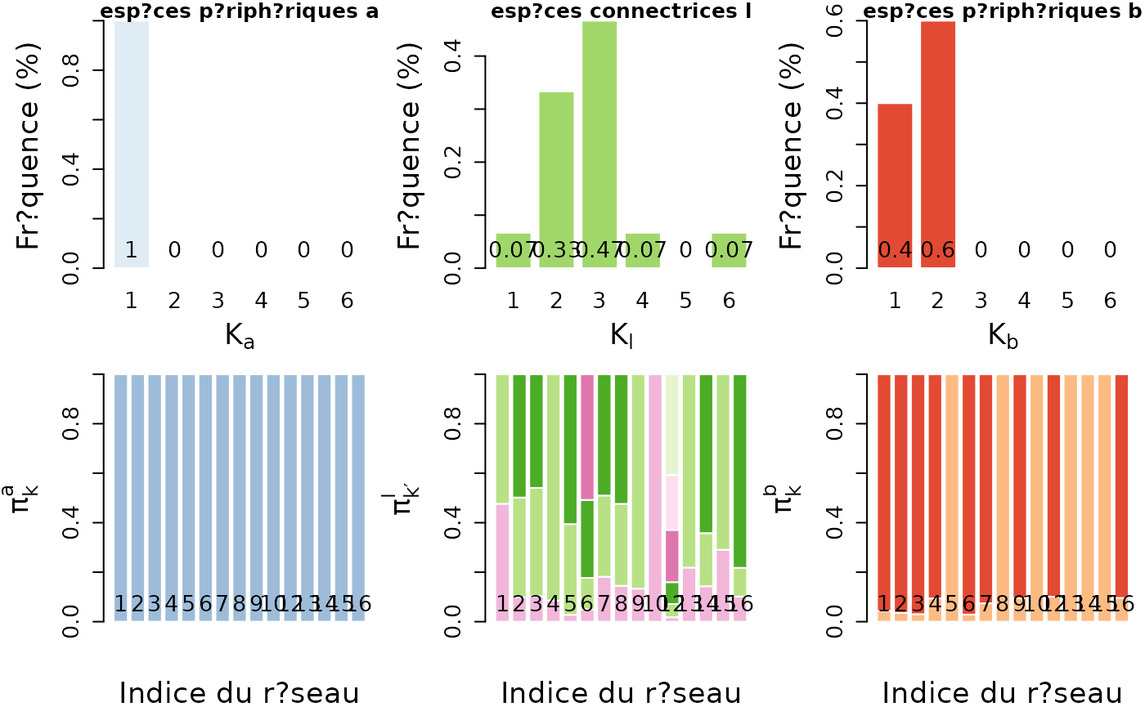
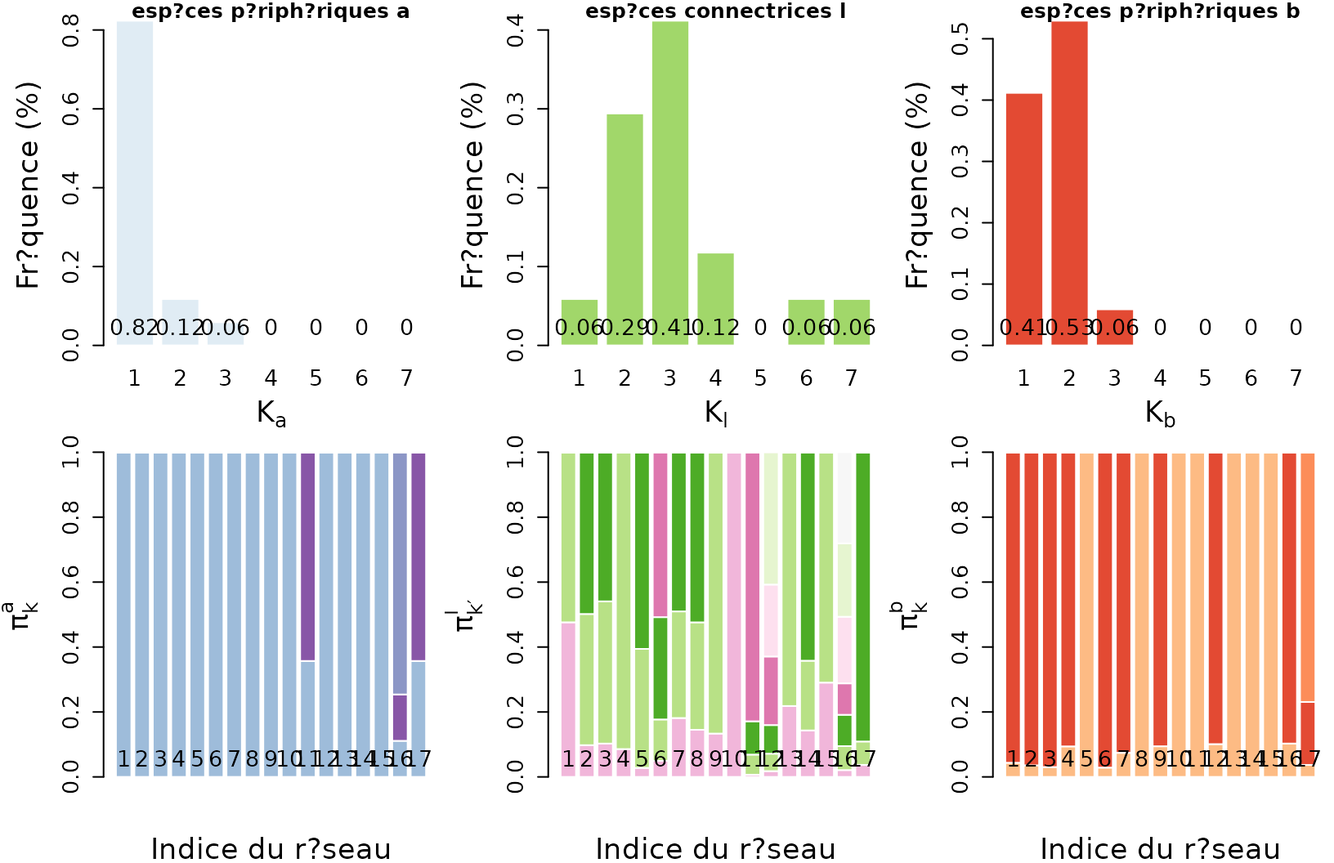
Built site for analysisMultipartiteSBM: 0.1.0@cf6ba3c

diff --git a/articles/Application_EcologicalNetworksDataset.html b/articles/Application_EcologicalNetworksDataset.html
@@ -99,21 +99,20 @@
 <a href="#requirements" class="anchor"></a>Requirements</h3>
 <p>The packages required for the analysis are <strong>analysisMultipartiteSBM</strong> and some others for data manipulation or representation:</p>
 <div class="sourceCode" id="cb1"><pre class="downlit sourceCode r">
-<code class="sourceCode R"><span class="kw"><a href="https://rdrr.io/r/base/library.html">library</a></span><span class="op">(</span><span class="va"><a href="https://ferdinandcampos.github.io/analysisMultipartiteSBM/">analysisMultipartiteSBM</a></span><span class="op">)</span></code></pre></div>
+<code class="sourceCode R"><span class="kw"><a href="https://rdrr.io/r/base/library.html">library</a></span><span class="op">(</span><span class="va"><a href="https://ferdinandcampos.github.io/analysisMultipartiteSBM">analysisMultipartiteSBM</a></span><span class="op">)</span></code></pre></div>
 </div>
 <div id="a-new-collection-of-networks" class="section level3">
 <h3 class="hasAnchor">
 <a href="#a-new-collection-of-networks" class="anchor"></a>A new collection of networks</h3>
 <p>Notre étude est motivée par une nouvelle collection de 42 réseaux tripartites récemment rassemblée et préparée par Virginia Domínguez-García dans <span class="citation">Domínguez-García and Kéfi (<a href="#ref-dominguez2021notes" role="doc-biblioref">n.d.</a>)</span> à partir des principales études écologiques multipartites existant dans la littérature. Les réseaux collectés sont issus de zones géographiques - et donc de type d’espèces, climat, nature des sols - différentes compte tenu de la grande variété des pays d’origine des études sources (<span class="citation">Melián et al. (<a href="#ref-melian2009diversity" role="doc-biblioref">2009</a>)</span>, <span class="citation">Shinohara, Uchida, and Yoshida (<a href="#ref-shinohara2019contrasting" role="doc-biblioref">2019</a>)</span>, <span class="citation">Pocock, Evans, and Memmott (<a href="#ref-pocock2012robustness" role="doc-biblioref">2012</a>)</span>, <span class="citation">Hackett et al. (<a href="#ref-hackett2019reshaping" role="doc-biblioref">2019</a>)</span>, <span class="citation">Macfadyen et al. (<a href="#ref-macfadyen2009differences" role="doc-biblioref">2009</a>)</span> et <span class="citation">Dáttilo et al. (<a href="#ref-dattilo2016unravelling" role="doc-biblioref">2016</a>)</span>). Il s’agit néanmoins du premier jeu de réseaux écologiques multipartites réels unifiant différents travaux écologiques et le seul de cette ampleur. Les données comprennent 44 réseaux tripartites structurés comme ci-dessus, dont les deux interactions bipartites sont de trois natures différentes : mutualiste–antagoniste (MA), antagoniste–antagoniste (AA) et mutualiste–mutualiste (MM).</p>
 <p>Les données utilisées sont les 17 réseaux de type mutualiste-antagoniste (MA) de ce jeu de données tripartites. Les interactions de ces 17 réseaux sont de deux types, herbivorie–pollinisation (i.e. a sont des herbivores, l des plantes et b des pollinisateurs) pour 16 d’entre eux et herbivorie–dispersion de graines (i.e. a sont des herbivores, l des plantes et b des espèces qui disséminent des graines) pour un d’entre eux. Par souci de clarté, on utilisera l’appellation commune d’espèces mutualistes pour l’ensemble des 17 réseaux.</p>
-<div class="sourceCode" id="cb2"><pre class="downlit sourceCode r">
-<code class="sourceCode R"><span class="co">#data(ecologicalNetworksDataset)</span></code></pre></div>
+<p>Pour des questions de publication de données, le jeu de réseaux d’origine <span class="math inline">\(\texttt{ecologicalNetworksDataset}\)</span> (avant ou après calibration MBM) n’est pas rendu disponible ici. On peut néanmoins charger le résultat du calcul des métriques sur les blocs (voir plus bas).</p>
 </div>
 <div id="preparation-of-the-data" class="section level3">
 <h3 class="hasAnchor">
 <a href="#preparation-of-the-data" class="anchor"></a>Preparation of the data</h3>
-<div class="sourceCode" id="cb3"><pre class="downlit sourceCode r">
-<code class="sourceCode R"><span class="va">dataset_path</span><span class="op">=</span><span class="st">""</span>
+<div class="sourceCode" id="cb2"><pre class="downlit sourceCode r">
+<code class="sourceCode R"><span class="va">dataset_path</span><span class="op">=</span><span class="st">"data/ecologicalNetworksDataset/"</span>
 <span class="va">dataset_names_MA</span> <span class="op">&lt;-</span> <span class="fu"><a href="https://rdrr.io/r/base/c.html">c</a></span><span class="op">(</span><span class="st">'Sinohara_1_ALL_PH'</span>, <span class="st">'Sinohara_2_ALL_PH'</span>, <span class="st">'Sinohara_3_ALL_PH'</span>, <span class="st">'Sinohara_4_ALL_PH'</span>, <span class="st">'Sinohara_ALL_A_PH'</span>, 
                       <span class="st">'Sinohara_ALL_E_PH'</span>, <span class="st">'Sinohara_ALL_I_PH'</span>, <span class="st">'Sinohara_2_E_PH'</span>, <span class="st">'Sinohara_3_E_PH'</span>, <span class="st">'Sinohara_4_I_PH'</span>, 
                       <span class="st">'Melian_OO_OO_PH'</span>, <span class="st">'Hackett_1_ALL_PH'</span>, <span class="st">'Hackett_2_ALL_PH'</span>, <span class="st">'Hackett_1_S_PH'</span>, <span class="st">'Hackett_1_GL_PH'</span>,
@@ -121,10 +120,7 @@
 
 
 <span class="va">dataset_names</span><span class="op">&lt;-</span><span class="va">dataset_names_MA</span>
-<span class="va">Indices</span><span class="op">=</span><span class="fl">1</span><span class="op">:</span><span class="fl">17</span>
-<span class="va">study_insectes_only</span><span class="op">=</span><span class="cn">FALSE</span>
-<span class="kw">if</span> <span class="op">(</span><span class="va">study_insectes_only</span><span class="op">)</span><span class="op">{</span><span class="va">dataset_names</span><span class="op">[</span><span class="fl">16</span><span class="op">]</span><span class="op">&lt;-</span><span class="st">"PocockInsects_OO_OO_PH"</span>
-                         <span class="va">Indices</span><span class="op">&lt;-</span><span class="va">Indices</span><span class="op">[</span><span class="op">-</span><span class="fu"><a href="https://rdrr.io/r/base/c.html">c</a></span><span class="op">(</span><span class="fl">11</span>,<span class="fl">17</span><span class="op">)</span><span class="op">]</span><span class="op">}</span></code></pre></div>
+<span class="va">Indices</span><span class="op">=</span><span class="fl">1</span><span class="op">:</span><span class="fl">17</span></code></pre></div>
 </div>
 <div id="multipartite-block-model-mbm" class="section level3">
 <h3 class="hasAnchor">
@@ -152,18 +148,15 @@ X^{qq^\prime}_{ii^\prime} = \left\{
 <div id="calibrate-mbm-and-compute-metrics" class="section level3">
 <h3 class="hasAnchor">
 <a href="#calibrate-mbm-and-compute-metrics" class="anchor"></a>Calibrate MBM and compute metrics</h3>
-<p>Pour chaque réseau tripartite individuel, on calibre MBM et puis on s’intéresse aux blocs inférés dans les trois groupes d’espèces (GE). On fait le choix des 5 métriques suivantes pour classifier les blocs du groupe des connecteurs <span class="math inline">\(l\)</span>, définies pour chaque bloc <span class="math inline">\(k^\prime\in1,\dots,K_l\)</span> d’un groupe de connecteurs <span class="math inline">\(l\)</span> donné : <span class="math display">\[\left(\bar{c}_a, \bar{c}_b, \textrm{PR}_b^{sym}, \bar{c}_a^{\textrm{N}}, \bar{c}_b^{\textrm{N}}\right).\]</span></p>
+<p>Pour chaque réseau tripartite individuel, on calibre MBM et puis on s’intéresse aux blocs inférés dans les trois groupes d’espèces (GE). On fait le choix des 5 métriques suivantes pour classifier les blocs du groupe des connecteurs <span class="math inline">\(l\)</span>, définies pour chaque bloc <span class="math inline">\(k^\prime\in1,\dots,K_l\)</span> d’un groupe de connecteurs <span class="math inline">\(l\)</span> donné : <span class="math display">\[\left(\bar{c}_a, \bar{c}_b, \textrm{PR}_b^{sym}, \bar{c}_a^{\textrm{N}}, \bar{c}_b^{\textrm{N}}\right).\]</span> On peut calculer les valeurs de métriques sur les blocs des <span class="math inline">\(17\)</span> réseaux grâce aux commandes suivantes.</p>
+<div class="sourceCode" id="cb3"><pre class="downlit sourceCode r">
+<code class="sourceCode R"><span class="va">analyseENetDataset</span><span class="op">&lt;-</span><span class="fu"><a href="../reference/analysisTripartiteSBM.html">analysisTripartiteSBM</a></span><span class="op">(</span><span class="va">dataset_path</span>,<span class="va">dataset_names</span>,<span class="va">Indices</span>,quiet<span class="op">=</span><span class="cn">TRUE</span><span class="op">)</span></code></pre></div>
+<p>On peut aussi directement charger depuis le package la table <span class="math inline">\(\texttt{analyseENetDataset}\)</span> contenant ces valeurs.</p>
 <div class="sourceCode" id="cb4"><pre class="downlit sourceCode r">
-<code class="sourceCode R"><span class="co">#analyse&lt;-analysisTripartiteSBM(dataset_path,dataset_names,Indices,quiet=TRUE)</span>
+<code class="sourceCode R"><span class="fu"><a href="https://rdrr.io/r/utils/data.html">data</a></span><span class="op">(</span><span class="va">analyseEcologicalNetworksDataset</span><span class="op">)</span>
 
-<span class="kw">if</span> <span class="op">(</span><span class="op">!</span><span class="va">study_insectes_only</span><span class="op">)</span><span class="op">{</span>
-  <span class="fu"><a href="https://rdrr.io/r/utils/data.html">data</a></span><span class="op">(</span><span class="va">analyseEcologicalNetworksDataset</span><span class="op">)</span>
-<span class="op">}</span> <span class="kw">else</span><span class="op">{</span>
-  <span class="fu"><a href="https://rdrr.io/r/utils/data.html">data</a></span><span class="op">(</span><span class="va">analyseEcologicalNetworksDataset_insects</span><span class="op">)</span>
-<span class="op">}</span>
-
-<span class="fu"><a href="https://rdrr.io/r/utils/str.html">str</a></span><span class="op">(</span><span class="va">analyse</span><span class="op">)</span>
-<span class="co">#&gt; 'data.frame':    81 obs. of  21 variables:</span>
+<span class="fu"><a href="https://rdrr.io/r/utils/str.html">str</a></span><span class="op">(</span><span class="va">analyseENetDataset</span><span class="op">)</span>
+<span class="co">#&gt; 'data.frame':    102 obs. of  21 variables:</span>
 <span class="co">#&gt;  $ network_id     : num  1 1 1 1 1 2 2 2 2 2 ...</span>
 <span class="co">#&gt;  $ network_name   : chr  "Sinohara_1_ALL_PH" "Sinohara_1_ALL_PH" "Sinohara_1_ALL_PH" "Sinohara_1_ALL_PH" ...</span>
 <span class="co">#&gt;  $ nb_nodes       : num  91 91 91 91 91 108 108 108 108 108 ...</span>
@@ -195,65 +188,93 @@ X^{qq^\prime}_{ii^\prime} = \left\{
 <a href="#blocks-analysis" class="anchor"></a>Blocks analysis</h3>
 <p>Les données issues des réseaux représentent <span class="math inline">\(N=53\)</span> blocs <span class="math inline">\(k^\prime\)</span> de plantes à classifier, en interactions avec <span class="math inline">\(21\)</span> blocs d’herbivores et <span class="math inline">\(28\)</span> blocs de mutualistes.</p>
 <div class="sourceCode" id="cb5"><pre class="downlit sourceCode r">
-<code class="sourceCode R"><span class="fu"><a href="../reference/plotAnalysisTripartiteSBM.html">plotAnalysisTripartiteSBM</a></span><span class="op">(</span><span class="va">analyse</span><span class="op">)</span></code></pre></div>
-<p><img src="Application_EcologicalNetworksDataset_files/figure-html/plot%20block%20analysis-1.png" width="700"></p>
+<code class="sourceCode R"><span class="fu"><a href="../reference/plotAnalysisTripartiteSBM.html">plotAnalysisTripartiteSBM</a></span><span class="op">(</span><span class="va">analyseENetDataset</span>,new.window<span class="op">=</span><span class="cn">FALSE</span><span class="op">)</span></code></pre></div>
+<p><img src="Application_EcologicalNetworksDataset_files/figure-html/plot%20block%20analysis-1.png" width="816"></p>
 </div>
 <div id="preparation-of-caracterisation" class="section level3">
 <h3 class="hasAnchor">
 <a href="#preparation-of-caracterisation" class="anchor"></a>Preparation of caracterisation</h3>
 <div class="sourceCode" id="cb6"><pre class="downlit sourceCode r">
 <code class="sourceCode R"><span class="va">FG</span><span class="op">=</span><span class="st">"plants"</span>
-<span class="kw">if</span> <span class="op">(</span><span class="op">!</span><span class="va">study_insectes_only</span><span class="op">)</span><span class="op">{</span><span class="co">#For our analysis 1</span>
-                          <span class="va">analysePlants</span><span class="op">&lt;-</span><span class="va">analyse</span><span class="op">[</span><span class="va">analyse</span><span class="op">$</span><span class="va">FG</span><span class="op">==</span><span class="va">FG</span>,<span class="op">]</span>
-                          <span class="va">metrics</span><span class="op">&lt;-</span><span class="fu"><a href="https://rdrr.io/r/base/c.html">c</a></span><span class="op">(</span><span class="st">"c_inter1"</span>,<span class="st">"c_inter2"</span>,<span class="st">"PR_inter1_sym"</span>,<span class="st">"cKnn_inter1"</span>,<span class="st">"cKnn_inter2"</span><span class="op">)</span>
-                          <span class="va">order_clusters</span><span class="op">&lt;-</span><span class="fu"><a href="https://rdrr.io/r/base/c.html">c</a></span><span class="op">(</span><span class="fl">1</span>,<span class="fl">3</span>,<span class="fl">2</span>,<span class="fl">5</span>,<span class="fl">4</span>,<span class="fl">6</span><span class="op">)</span>
-                          <span class="va">nb_clusters</span><span class="op">&lt;-</span><span class="fl">6</span>
-                          <span class="va">plotIndicesblocs</span><span class="op">&lt;-</span><span class="fl">1</span><span class="op">:</span><span class="fu"><a href="https://rdrr.io/r/base/nrow.html">nrow</a></span><span class="op">(</span><span class="va">analysePlants</span><span class="op">)</span>
-<span class="op">}</span><span class="kw">else</span><span class="op">{</span><span class="co">#For our analysis 2 (insects only)</span>
-      <span class="va">analysePlants</span><span class="op">&lt;-</span><span class="va">analyse</span><span class="op">[</span><span class="va">analyse</span><span class="op">$</span><span class="va">FG</span><span class="op">==</span><span class="va">FG</span>,<span class="op">]</span>
-      <span class="va">metrics</span><span class="op">&lt;-</span><span class="fu"><a href="https://rdrr.io/r/base/c.html">c</a></span><span class="op">(</span><span class="st">"c_inter1"</span>,<span class="st">"c_inter2"</span>,<span class="st">"PR_inter1_sym"</span>,<span class="st">"cKnn_inter1"</span><span class="op">)</span>
-      <span class="va">order_clusters</span><span class="op">&lt;-</span><span class="fu"><a href="https://rdrr.io/r/base/c.html">c</a></span><span class="op">(</span><span class="fl">2</span>,<span class="fl">1</span>,<span class="fl">3</span>,<span class="fl">5</span>,<span class="fl">4</span><span class="op">)</span>
-      <span class="va">nb_clusters</span><span class="op">&lt;-</span><span class="fl">5</span>
-      <span class="va">plotIndicesblocs</span><span class="op">&lt;-</span><span class="fl">1</span><span class="op">:</span><span class="fu"><a href="https://rdrr.io/r/base/nrow.html">nrow</a></span><span class="op">(</span><span class="va">analysePlants</span><span class="op">)</span>
-      <span class="va">plotIndicesblocs</span><span class="op">&lt;-</span><span class="va">plotIndicesblocs</span><span class="op">[</span><span class="op">-</span><span class="fu"><a href="https://rdrr.io/r/base/c.html">c</a></span><span class="op">(</span><span class="fl">27</span>,<span class="fl">28</span>,<span class="fl">29</span>,<span class="fl">30</span><span class="op">)</span><span class="op">]</span> <span class="co">#on enl?ve les 4 indices propres au r?seau 11 removed</span>
-      <span class="va">last_indice_blocs</span><span class="op">&lt;-</span><span class="va">plotIndicesblocs</span><span class="op">[</span><span class="fu"><a href="https://rdrr.io/r/base/length.html">length</a></span><span class="op">(</span><span class="va">plotIndicesblocs</span><span class="op">)</span><span class="op">]</span>
-      <span class="va">plotIndicesblocs</span><span class="op">&lt;-</span><span class="fu"><a href="https://rdrr.io/r/base/c.html">c</a></span><span class="op">(</span><span class="va">plotIndicesblocs</span>,<span class="va">last_indice_blocs</span><span class="op">+</span><span class="fl">1</span>,<span class="va">last_indice_blocs</span><span class="op">+</span><span class="fl">2</span>,<span class="va">last_indice_blocs</span><span class="op">+</span><span class="fl">3</span>,<span class="va">last_indice_blocs</span><span class="op">+</span><span class="fl">4</span><span class="op">)</span> <span class="co">#on ajoute 4 derniers num?ros</span>
-<span class="op">}</span></code></pre></div>
+<span class="va">analysePlants</span><span class="op">&lt;-</span><span class="va">analyseENetDataset</span><span class="op">[</span><span class="va">analyseENetDataset</span><span class="op">$</span><span class="va">FG</span><span class="op">==</span><span class="va">FG</span>,<span class="op">]</span>
+<span class="va">metrics</span><span class="op">&lt;-</span><span class="fu"><a href="https://rdrr.io/r/base/c.html">c</a></span><span class="op">(</span><span class="st">"c_inter1"</span>,<span class="st">"c_inter2"</span>,<span class="st">"PR_inter1_sym"</span>,<span class="st">"cKnn_inter1"</span>,<span class="st">"cKnn_inter2"</span><span class="op">)</span>
+<span class="va">order_clusters</span><span class="op">&lt;-</span><span class="fu"><a href="https://rdrr.io/r/base/c.html">c</a></span><span class="op">(</span><span class="fl">1</span>,<span class="fl">3</span>,<span class="fl">2</span>,<span class="fl">5</span>,<span class="fl">4</span>,<span class="fl">6</span><span class="op">)</span>
+<span class="va">nb_clusters</span><span class="op">&lt;-</span><span class="fl">6</span>
+<span class="va">plotIndicesblocs</span><span class="op">&lt;-</span><span class="fl">1</span><span class="op">:</span><span class="fu"><a href="https://rdrr.io/r/base/nrow.html">nrow</a></span><span class="op">(</span><span class="va">analysePlants</span><span class="op">)</span></code></pre></div>
 </div>
 <div id="clustering-analysis-to-caracterise-blocks-of-plants" class="section level3">
 <h3 class="hasAnchor">
 <a href="#clustering-analysis-to-caracterise-blocks-of-plants" class="anchor"></a>Clustering analysis to caracterise blocks of plants</h3>
 <div class="sourceCode" id="cb7"><pre class="downlit sourceCode r">
-<code class="sourceCode R"><span class="va">caracterisation</span><span class="op">&lt;-</span><span class="fu"><a href="../reference/caracTripartiteSBM.html">caracTripartiteSBM</a></span><span class="op">(</span><span class="va">analysePlants</span>,<span class="va">metrics</span>,order_clusters<span class="op">=</span><span class="va">order_clusters</span><span class="op">)</span>
+<code class="sourceCode R"><span class="va">caracterisation</span><span class="op">&lt;-</span><span class="fu"><a href="../reference/caracTripartiteSBM.html">caracTripartiteSBM</a></span><span class="op">(</span><span class="va">analysePlants</span>,<span class="va">metrics</span>,<span class="va">nb_clusters</span><span class="op">)</span>
 
-<span class="va">caracterisation</span><span class="op">$</span><span class="va">centers</span></code></pre></div>
+<span class="va">caracterisation</span><span class="op">$</span><span class="va">centers</span>
+<span class="co">#&gt;     c_inter1   c_inter2 PR_inter1_sym cKnn_inter1 cKnn_inter2</span>
+<span class="co">#&gt; 1  0.1113756 -0.6085195     0.8597163   0.1548651  0.11727960</span>
+<span class="co">#&gt; 2 -0.5582043  0.2885937    -0.9192510  -0.7329250  0.04028911</span>
+<span class="co">#&gt; 3  2.8457136  1.0367753     0.7689613  -0.6906359  0.07255068</span>
+<span class="co">#&gt; 4  0.8952272  4.6687678    -0.4288273  -0.4471173  0.10890542</span>
+<span class="co">#&gt; 5 -0.5561838  0.2160028    -1.1429030   2.0279819  0.33243244</span>
+<span class="co">#&gt; 6 -0.2826292 -1.4540790     0.3644965   0.4030125 -8.18743083</span></code></pre></div>
 <div class="sourceCode" id="cb8"><pre class="downlit sourceCode r">
-<code class="sourceCode R"><span class="fu"><a href="../reference/plotCaracTripartiteSBM.html">plotCaracTripartiteSBM</a></span><span class="op">(</span><span class="va">caracterisation</span>,<span class="va">plotIndicesblocs</span><span class="op">)</span></code></pre></div>
+<code class="sourceCode R"><span class="fu"><a href="../reference/plotCaracTripartiteSBM.html">plotCaracTripartiteSBM</a></span><span class="op">(</span><span class="va">caracterisation</span>,new.window<span class="op">=</span><span class="cn">FALSE</span><span class="op">)</span></code></pre></div>
+<p><img src="Application_EcologicalNetworksDataset_files/figure-html/plot%20block%20caracterisation-1.png" width="816"></p>
 </div>
 </div>
 <div id="additionnal-analyses" class="section level2">
 <h2 class="hasAnchor">
 <a href="#additionnal-analyses" class="anchor"></a>Additionnal analyses</h2>
-<div id="second-application-insects-only" class="section level3">
-<h3 class="hasAnchor">
-<a href="#second-application-insects-only" class="anchor"></a>Second application, insects only</h3>
-<div class="sourceCode" id="cb9"><pre class="downlit sourceCode r">
-<code class="sourceCode R"><span class="va">study_insectes_only</span><span class="op">=</span><span class="cn">TRUE</span></code></pre></div>
-</div>
 <div id="appendix-1-functional-cartography" class="section level3">
 <h3 class="hasAnchor">
 <a href="#appendix-1-functional-cartography" class="anchor"></a>Appendix 1 : functional cartography</h3>
 <p>Une façon d’illustrer les connectances partielles et taux de participation réside dans l’outil de la cartographie fonctionnelle (<span class="math inline">\(\textit{functional cartography}\)</span>) introduite en écologie dans le célèbre <span class="citation">Guimerà and Amaral (<a href="#ref-Guimera2005A" role="doc-biblioref">2005</a>)</span>, qui trace et classe des espèces dans un plan du type <span class="math inline">\((\textit{taux de participation}, \textit{degré})\)</span>.</p>
-<div class="sourceCode" id="cb10"><pre class="downlit sourceCode r">
-<code class="sourceCode R"><span class="fu"><a href="../reference/plotFunctionalCartography.html">plotFunctionalCartography</a></span><span class="op">(</span><span class="va">analyse</span><span class="op">)</span></code></pre></div>
+<div class="sourceCode" id="cb9"><pre class="downlit sourceCode r">
+<code class="sourceCode R"><span class="fu"><a href="../reference/plotFunctionalCartography.html">plotFunctionalCartography</a></span><span class="op">(</span><span class="va">analyseENetDataset</span>,new.window<span class="op">=</span><span class="cn">FALSE</span><span class="op">)</span></code></pre></div>
+<p><img src="Application_EcologicalNetworksDataset_files/figure-html/plot%20functional%20cartography-1.png" width="576"></p>
 </div>
 <div id="appendix-2-degree-degree-of-neighbors-inversion" class="section level3">
 <h3 class="hasAnchor">
 <a href="#appendix-2-degree-degree-of-neighbors-inversion" class="anchor"></a>Appendix 2 :degree-degree of neighbors inversion</h3>
 <p>Dans les écosystèmes plantes–pollinisateurs, une inversion en moyenne du caractère spécialiste/généraliste entre les espèces et leurs voisins est reportée dans la littérature (<span class="citation">Bascompte et al. (<a href="#ref-bascompte2003nested" role="doc-biblioref">2003</a>)</span>, <span class="citation">Jordano (<a href="#ref-jordano1987patterns" role="doc-biblioref">1987</a>)</span>). Ici on propose de retrouver ce signal à l’échelle des blocs en traçant pour les plantes et les pollinisateurs les courbes de connectances partielles <span class="math inline">\(\bar c_b\)</span> en fonction des connectances partielles moyennes des voisins <span class="math inline">\(\bar c_b^{\textrm{N}}\)</span> associées aux blocs des 16 réseaux de type herbivorie–pollinisation à l’étude.</p>
-<div class="sourceCode" id="cb11"><pre class="downlit sourceCode r">
+<div class="sourceCode" id="cb10"><pre class="downlit sourceCode r">
 <code class="sourceCode R"><span class="va">Indices_plantspollination</span><span class="op">&lt;-</span><span class="va">Indices</span><span class="op">[</span><span class="op">-</span><span class="fu"><a href="https://rdrr.io/r/base/c.html">c</a></span><span class="op">(</span><span class="fl">5</span>,<span class="fl">8</span>,<span class="fl">11</span>,<span class="fl">13</span>,<span class="fl">14</span>,<span class="fl">15</span>,<span class="fl">17</span><span class="op">)</span><span class="op">]</span>
-<span class="fu"><a href="../reference/plotDegInversion.html">plotDegInversion</a></span><span class="op">(</span><span class="va">analyse</span>,<span class="va">Indices_plantspollination</span><span class="op">)</span></code></pre></div>
+<span class="fu"><a href="../reference/plotDegInversion.html">plotDegInversion</a></span><span class="op">(</span><span class="va">analyseENetDataset</span>,<span class="va">Indices_plantspollination</span>,new.window<span class="op">=</span><span class="cn">FALSE</span><span class="op">)</span></code></pre></div>
+<p><img src="Application_EcologicalNetworksDataset_files/figure-html/plot%20deg%20inversion-1.png" width="816"></p>
+</div>
+<div id="additional-materials" class="section level3">
+<h3 class="hasAnchor">
+<a href="#additional-materials" class="anchor"></a>Additional materials</h3>
+<p>One can plot the individual blocks’ distributions in clusters, per network.</p>
+<div class="sourceCode" id="cb11"><pre class="downlit sourceCode r">
+<code class="sourceCode R"><span class="co">#plotCaracTripartiteSBM(caracterisation,plot.type="distrib.networks",new.window=FALSE)</span></code></pre></div>
+<p>The Multidimensional Scaling (MDS) can also be plotted.</p>
+<div class="sourceCode" id="cb12"><pre class="downlit sourceCode r">
+<code class="sourceCode R"><span class="co">#plotCaracTripartiteSBM(caracterisation,plot.type="mds",new.window=FALSE)</span></code></pre></div>
+</div>
+<div id="second-application-caracterisation-with-insects-only" class="section level3">
+<h3 class="hasAnchor">
+<a href="#second-application-caracterisation-with-insects-only" class="anchor"></a>Second application : caracterisation with insects only</h3>
+<p>On peut mener une analyse analogue en ne retenant que des insectes parmi les herbivores, en ajoutant ou changeant les assertions suivantes :</p>
+<div class="sourceCode" id="cb13"><pre class="downlit sourceCode r">
+<code class="sourceCode R"><span class="co">#For our analysis 2 (insects only)</span>
+<span class="va">dataset_names</span><span class="op">&lt;-</span><span class="va">dataset_names_MA</span>
+<span class="va">dataset_names</span><span class="op">[</span><span class="fl">16</span><span class="op">]</span><span class="op">&lt;-</span><span class="st">"PocockInsects_OO_OO_PH"</span>
+<span class="va">Indices</span><span class="op">=</span><span class="fl">1</span><span class="op">:</span><span class="fl">17</span>
+<span class="va">Indices</span><span class="op">&lt;-</span><span class="va">Indices</span><span class="op">[</span><span class="op">-</span><span class="fu"><a href="https://rdrr.io/r/base/c.html">c</a></span><span class="op">(</span><span class="fl">11</span>,<span class="fl">17</span><span class="op">)</span><span class="op">]</span>
+
+<span class="fu"><a href="https://rdrr.io/r/utils/data.html">data</a></span><span class="op">(</span><span class="va">analyseEcologicalNetworksDataset_insects</span><span class="op">)</span>
+
+<span class="va">analysePlants</span><span class="op">&lt;-</span><span class="va">analyseENetDataset_insects</span><span class="op">[</span><span class="va">analyseENetDataset_insects</span><span class="op">$</span><span class="va">FG</span><span class="op">==</span><span class="va">FG</span>,<span class="op">]</span>
+<span class="va">metrics</span><span class="op">&lt;-</span><span class="fu"><a href="https://rdrr.io/r/base/c.html">c</a></span><span class="op">(</span><span class="st">"c_inter1"</span>,<span class="st">"c_inter2"</span>,<span class="st">"PR_inter1_sym"</span>,<span class="st">"cKnn_inter1"</span><span class="op">)</span>
+<span class="va">order_clusters</span><span class="op">&lt;-</span><span class="fu"><a href="https://rdrr.io/r/base/c.html">c</a></span><span class="op">(</span><span class="fl">2</span>,<span class="fl">1</span>,<span class="fl">3</span>,<span class="fl">5</span>,<span class="fl">4</span><span class="op">)</span>
+<span class="va">nb_clusters</span><span class="op">&lt;-</span><span class="fl">5</span>
+<span class="va">plotIndicesblocs</span><span class="op">&lt;-</span><span class="fl">1</span><span class="op">:</span><span class="fu"><a href="https://rdrr.io/r/base/nrow.html">nrow</a></span><span class="op">(</span><span class="va">analysePlants</span><span class="op">)</span>
+<span class="va">plotIndicesblocs</span><span class="op">&lt;-</span><span class="va">plotIndicesblocs</span><span class="op">[</span><span class="op">-</span><span class="fu"><a href="https://rdrr.io/r/base/c.html">c</a></span><span class="op">(</span><span class="fl">27</span>,<span class="fl">28</span>,<span class="fl">29</span>,<span class="fl">30</span><span class="op">)</span><span class="op">]</span> <span class="co">#on enl?ve les 4 indices propres au r?seau 11 removed</span>
+<span class="va">last_indice_blocs</span><span class="op">&lt;-</span><span class="va">plotIndicesblocs</span><span class="op">[</span><span class="fu"><a href="https://rdrr.io/r/base/length.html">length</a></span><span class="op">(</span><span class="va">plotIndicesblocs</span><span class="op">)</span><span class="op">]</span>
+<span class="va">plotIndicesblocs</span><span class="op">&lt;-</span><span class="fu"><a href="https://rdrr.io/r/base/c.html">c</a></span><span class="op">(</span><span class="va">plotIndicesblocs</span>,<span class="va">last_indice_blocs</span><span class="op">+</span><span class="fl">1</span>,<span class="va">last_indice_blocs</span><span class="op">+</span><span class="fl">2</span>,<span class="va">last_indice_blocs</span><span class="op">+</span><span class="fl">3</span>,<span class="va">last_indice_blocs</span><span class="op">+</span><span class="fl">4</span><span class="op">)</span> <span class="co">#on ajoute 4 derniers num?ros</span>
+
+
+<span class="fu"><a href="../reference/plotCaracTripartiteSBM.html">plotCaracTripartiteSBM</a></span><span class="op">(</span><span class="va">caracterisation</span>,<span class="va">plotIndicesblocs</span><span class="op">)</span></code></pre></div>
 <hr>
 <div id="refs" class="references">
 <div id="ref-Barhen2020">

diff --git a/reference/plotAnalysisTripartiteSBM.html b/reference/plotAnalysisTripartiteSBM.html
@@ -136,7 +136,8 @@ that emerge from MBM parameters.</p>
 
     <pre class="usage"><span class='fu'>plotAnalysisTripartiteSBM</span><span class='op'>(</span>
   <span class='va'>analyse</span>,
-  Indices <span class='op'>=</span> <span class='fu'><a href='https://rdrr.io/r/base/numeric.html'>as.numeric</a></span><span class='op'>(</span><span class='fu'><a href='https://rdrr.io/r/base/names.html'>names</a></span><span class='op'>(</span><span class='fu'><a href='https://rdrr.io/r/base/table.html'>table</a></span><span class='op'>(</span><span class='va'>analyse</span><span class='op'>$</span><span class='va'>network_id</span><span class='op'>)</span><span class='op'>)</span><span class='op'>)</span>
+  Indices <span class='op'>=</span> <span class='fu'><a href='https://rdrr.io/r/base/numeric.html'>as.numeric</a></span><span class='op'>(</span><span class='fu'><a href='https://rdrr.io/r/base/names.html'>names</a></span><span class='op'>(</span><span class='fu'><a href='https://rdrr.io/r/base/table.html'>table</a></span><span class='op'>(</span><span class='va'>analyse</span><span class='op'>$</span><span class='va'>network_id</span><span class='op'>)</span><span class='op'>)</span><span class='op'>)</span>,
+  new.window <span class='op'>=</span> <span class='cn'>TRUE</span>
 <span class='op'>)</span></pre>
 
     <h2 class="hasAnchor" id="arguments"><a class="anchor" href="#arguments"></a>Arguments</h2>
@@ -152,6 +153,10 @@ and relative sizes of blocks <code>cluster_pi</code></p></td>
       <th>Indices</th>
       <td><p>optional vector of networks' indexes to be plotted</p></td>
     </tr>
+    <tr>
+      <th>new.window</th>
+      <td><p>plots in a new window if TRUE</p></td>
+    </tr>
     </table>
 
     <h2 class="hasAnchor" id="value"><a class="anchor" href="#value"></a>Value</h2>
@@ -161,7 +166,7 @@ and relative sizes of blocks <code>cluster_pi</code></p></td>
     <h2 class="hasAnchor" id="examples"><a class="anchor" href="#examples"></a>Examples</h2>
     <pre class="examples"><div class='input'><span class='fu'><a href='https://rdrr.io/r/utils/data.html'>data</a></span><span class='op'>(</span><span class='va'>analyseEcologicalNetworksDataset</span><span class='op'>)</span>
 <span class='fu'>plotAnalysisTripartiteSBM</span><span class='op'>(</span><span class='va'>analyse</span><span class='op'>)</span>
-</div><div class='img'><img src='plotAnalysisTripartiteSBM-1.png' alt='' width='700' height='433' /></div><div class='input'>
+</div><div class='output co'>#&gt; <span class='warning'>Warning: unable to open connection to X11 display ''</span></div><div class='output co'>#&gt; <span class='error'>Error in .External2(C_X11, d$display, d$width, d$height, d$pointsize,     d$gamma, d$colortype, d$maxcubesize, d$bg, d$canvas, d$fonts,     NA_integer_, d$xpos, d$ypos, d$title, type, antialias, d$family,     optionSymbolFont(d$symbolfamily)): unable to start device X11cairo</span></div><div class='input'>
 </div></pre>
   </div>
   <div class="col-md-3 hidden-xs hidden-sm" id="pkgdown-sidebar">

diff --git a/reference/plotFunctionalCartography.html b/reference/plotFunctionalCartography.html
@@ -133,19 +133,32 @@
   <span class='va'>analyse</span>,
   plotdim <span class='op'>=</span> <span class='st'>"2d"</span>,
   highlight.3d <span class='op'>=</span> <span class='cn'>FALSE</span>,
-  Indices <span class='op'>=</span> <span class='fu'><a href='https://rdrr.io/r/base/numeric.html'>as.numeric</a></span><span class='op'>(</span><span class='fu'><a href='https://rdrr.io/r/base/names.html'>names</a></span><span class='op'>(</span><span class='fu'><a href='https://rdrr.io/r/base/table.html'>table</a></span><span class='op'>(</span><span class='va'>analyse</span><span class='op'>$</span><span class='va'>network_id</span><span class='op'>)</span><span class='op'>)</span><span class='op'>)</span>
+  Indices <span class='op'>=</span> <span class='fu'><a href='https://rdrr.io/r/base/numeric.html'>as.numeric</a></span><span class='op'>(</span><span class='fu'><a href='https://rdrr.io/r/base/names.html'>names</a></span><span class='op'>(</span><span class='fu'><a href='https://rdrr.io/r/base/table.html'>table</a></span><span class='op'>(</span><span class='va'>analyse</span><span class='op'>$</span><span class='va'>network_id</span><span class='op'>)</span><span class='op'>)</span><span class='op'>)</span>,
+  new.window <span class='op'>=</span> <span class='cn'>TRUE</span>
 <span class='op'>)</span></pre>
 
     <h2 class="hasAnchor" id="arguments"><a class="anchor" href="#arguments"></a>Arguments</h2>
     <table class="ref-arguments">
     <colgroup><col class="name" /><col class="desc" /></colgroup>
     <tr>
-      <th>x</th>
+      <th>analyse</th>
       <td><p>à faire</p></td>
     </tr>
     <tr>
-      <th>y</th>
+      <th>plotdim</th>
       <td><p>à faire</p></td>
+    </tr>
+    <tr>
+      <th>highlight.3d</th>
+      <td><p>à faire</p></td>
+    </tr>
+    <tr>
+      <th>Indices</th>
+      <td><p>à faire</p></td>
+    </tr>
+    <tr>
+      <th>new.window</th>
+      <td><p>plots in a new window if TRUE</p></td>
     </tr>
     </table>
 

diff --git a/reference/plotCaracTripartiteSBM.html b/reference/plotCaracTripartiteSBM.html
@@ -131,19 +131,29 @@
 
     <pre class="usage"><span class='fu'>plotCaracTripartiteSBM</span><span class='op'>(</span>
   <span class='va'>caracterisation</span>,
-  plotIndicesblocs <span class='op'>=</span> <span class='fl'>1</span><span class='op'>:</span><span class='fu'><a href='https://rdrr.io/r/base/nrow.html'>nrow</a></span><span class='op'>(</span><span class='va'>caracterisation</span><span class='op'>$</span><span class='va'>data</span><span class='op'>$</span><span class='va'>analysePlants</span><span class='op'>)</span>
+  plot.type <span class='op'>=</span> <span class='st'>"main"</span>,
+  plotIndicesblocs <span class='op'>=</span> <span class='fl'>1</span><span class='op'>:</span><span class='fu'><a href='https://rdrr.io/r/base/nrow.html'>nrow</a></span><span class='op'>(</span><span class='va'>caracterisation</span><span class='op'>$</span><span class='va'>data</span><span class='op'>$</span><span class='va'>analysePlants</span><span class='op'>)</span>,
+  new.window <span class='op'>=</span> <span class='cn'>TRUE</span>
 <span class='op'>)</span></pre>
 
     <h2 class="hasAnchor" id="arguments"><a class="anchor" href="#arguments"></a>Arguments</h2>
     <table class="ref-arguments">
     <colgroup><col class="name" /><col class="desc" /></colgroup>
     <tr>
-      <th>x</th>
+      <th>caracterisation</th>
       <td><p>à faire</p></td>
     </tr>
     <tr>
-      <th>y</th>
+      <th>plot.type</th>
+      <td><p>type du plot entre le principal, "main", ou les deux annexes "distrib.networks" et "mds"</p></td>
+    </tr>
+    <tr>
+      <th>plotIndicesblocs</th>
       <td><p>à faire</p></td>
+    </tr>
+    <tr>
+      <th>new.window</th>
+      <td><p>plots in a new window if TRUE</p></td>
     </tr>
     </table>
 

diff --git a/reference/plotDegInversion.html b/reference/plotDegInversion.html
@@ -132,19 +132,24 @@
     <pre class="usage"><span class='fu'>plotDegInversion</span><span class='op'>(</span>
   <span class='va'>analyse</span>,
   Indices <span class='op'>=</span> <span class='fu'><a href='https://rdrr.io/r/base/numeric.html'>as.numeric</a></span><span class='op'>(</span><span class='fu'><a href='https://rdrr.io/r/base/names.html'>names</a></span><span class='op'>(</span><span class='fu'><a href='https://rdrr.io/r/base/table.html'>table</a></span><span class='op'>(</span><span class='va'>analyse</span><span class='op'>$</span><span class='va'>network_id</span><span class='op'>)</span><span class='op'>)</span><span class='op'>)</span>,
-  seuilPRb_hidecluster <span class='op'>=</span> <span class='fl'>0</span>
+  seuilPRb_hidecluster <span class='op'>=</span> <span class='fl'>0</span>,
+  new.window <span class='op'>=</span> <span class='cn'>TRUE</span>
 <span class='op'>)</span></pre>
 
     <h2 class="hasAnchor" id="arguments"><a class="anchor" href="#arguments"></a>Arguments</h2>
     <table class="ref-arguments">
     <colgroup><col class="name" /><col class="desc" /></colgroup>
     <tr>
-      <th>x</th>
+      <th>analyse</th>
       <td><p>à faire</p></td>
     </tr>
     <tr>
-      <th>y</th>
-      <td><p>à faire</p></td>
+      <th>Indices</th>
+      <td><p>à faire#'</p></td>
+    </tr>
+    <tr>
+      <th>new.window</th>
+      <td><p>plots in a new window if TRUE</p></td>
     </tr>
     </table>
 

diff --git a/reference/plotNetworkTripartiteSBM.html b/reference/plotNetworkTripartiteSBM.html
@@ -136,19 +136,44 @@
   plot_graph_no_partites <span class='op'>=</span> <span class='cn'>TRUE</span>,
   show_titles <span class='op'>=</span> <span class='cn'>TRUE</span>,
   nodes_size <span class='op'>=</span> <span class='fl'>3</span>,
-  nodes_pie <span class='op'>=</span> <span class='cn'>TRUE</span>
+  nodes_pie <span class='op'>=</span> <span class='cn'>TRUE</span>,
+  new.window <span class='op'>=</span> <span class='cn'>TRUE</span>
 <span class='op'>)</span></pre>
 
     <h2 class="hasAnchor" id="arguments"><a class="anchor" href="#arguments"></a>Arguments</h2>
     <table class="ref-arguments">
     <colgroup><col class="name" /><col class="desc" /></colgroup>
     <tr>
-      <th>x</th>
+      <th>myMSBM</th>
       <td><p>à faire</p></td>
     </tr>
     <tr>
-      <th>y</th>
+      <th>seuil_hesitation</th>
       <td><p>à faire</p></td>
+    </tr>
+    <tr>
+      <th>plot_types</th>
+      <td><p>à faire</p></td>
+    </tr>
+    <tr>
+      <th>plot_graph_no_partites</th>
+      <td><p>à faire</p></td>
+    </tr>
+    <tr>
+      <th>show_titles</th>
+      <td><p>à faire</p></td>
+    </tr>
+    <tr>
+      <th>nodes_size</th>
+      <td><p>à faire</p></td>
+    </tr>
+    <tr>
+      <th>nodes_pie</th>
+      <td><p>à faire</p></td>
+    </tr>
+    <tr>
+      <th>new.window</th>
+      <td><p>plots in a new window if TRUE</p></td>
     </tr>
     </table>
 

diff --git a/Application_EcologicalNetworksDataset.html b/Application_EcologicalNetworksDataset.html
@@ -133,7 +133,7 @@
 <a href="#requirements" class="anchor"></a>Requirements</h3>
 <p>The packages required for the analysis are <strong>analysisMultipartiteSBM</strong> and some others for data manipulation or representation:</p>
 <div class="sourceCode" id="cb1"><pre class="downlit sourceCode r">
-<code class="sourceCode R"><span class="kw"><a href="https://rdrr.io/r/base/library.html">library</a></span><span class="op">(</span><span class="va"><a href="https://ferdinandcampos.github.io/analysisMultipartiteSBM/">analysisMultipartiteSBM</a></span><span class="op">)</span></code></pre></div>
+<code class="sourceCode R"><span class="kw"><a href="https://rdrr.io/r/base/library.html">library</a></span><span class="op">(</span><span class="va"><a href="https://ferdinandcampos.github.io/analysisMultipartiteSBM">analysisMultipartiteSBM</a></span><span class="op">)</span></code></pre></div>
 </div>
 <div id="a-new-collection-of-networks" class="section level3">
 <h3 class="hasAnchor">

diff --git a/index.html b/index.html
@@ -89,7 +89,7 @@
 <p>You can install the development version from <a href="https://github.com/">GitHub</a> with:</p>
 <div class="sourceCode" id="cb1"><pre class="downlit sourceCode r">
 <code class="sourceCode R"><span class="co"># install.packages("devtools")</span>
-<span class="fu">devtools</span><span class="fu">::</span><span class="fu">install_github</span><span class="op">(</span><span class="st">"ferdinandcampos/analysisMultipartiteSBM/"</span><span class="op">)</span></code></pre></div>
+<span class="fu">devtools</span><span class="fu">::</span><span class="fu">install_github</span><span class="op">(</span><span class="st">"ferdinandcampos/analysisMultipartiteSBM"</span><span class="op">)</span></code></pre></div>
 </div>
 <div id="vignettes-and-references" class="section level2">
 <h2 class="hasAnchor">

diff --git a/reference/getMetricsTripartiteSBM.html b/reference/getMetricsTripartiteSBM.html
@@ -150,8 +150,7 @@
 
     <h2 class="hasAnchor" id="examples"><a class="anchor" href="#examples"></a>Examples</h2>
     <pre class="examples"><div class='input'><span class='fu'>getMetricsTripartiteSBM</span><span class='op'>(</span><span class='va'>myMSBM</span><span class='op'>)</span>
-</div><div class='output co'>#&gt; <span class='error'>Error in getMetricsTripartiteSBM(myMSBM): object 'myMSBM' not found</span></div><div class='input'>
-</div></pre>
+</div><div class='output co'>#&gt; <span class='error'>Error in getMetricsTripartiteSBM(myMSBM): object 'myMSBM' not found</span></div></pre>
   </div>
   <div class="col-md-3 hidden-xs hidden-sm" id="pkgdown-sidebar">
     <nav id="toc" data-toggle="toc" class="sticky-top">
